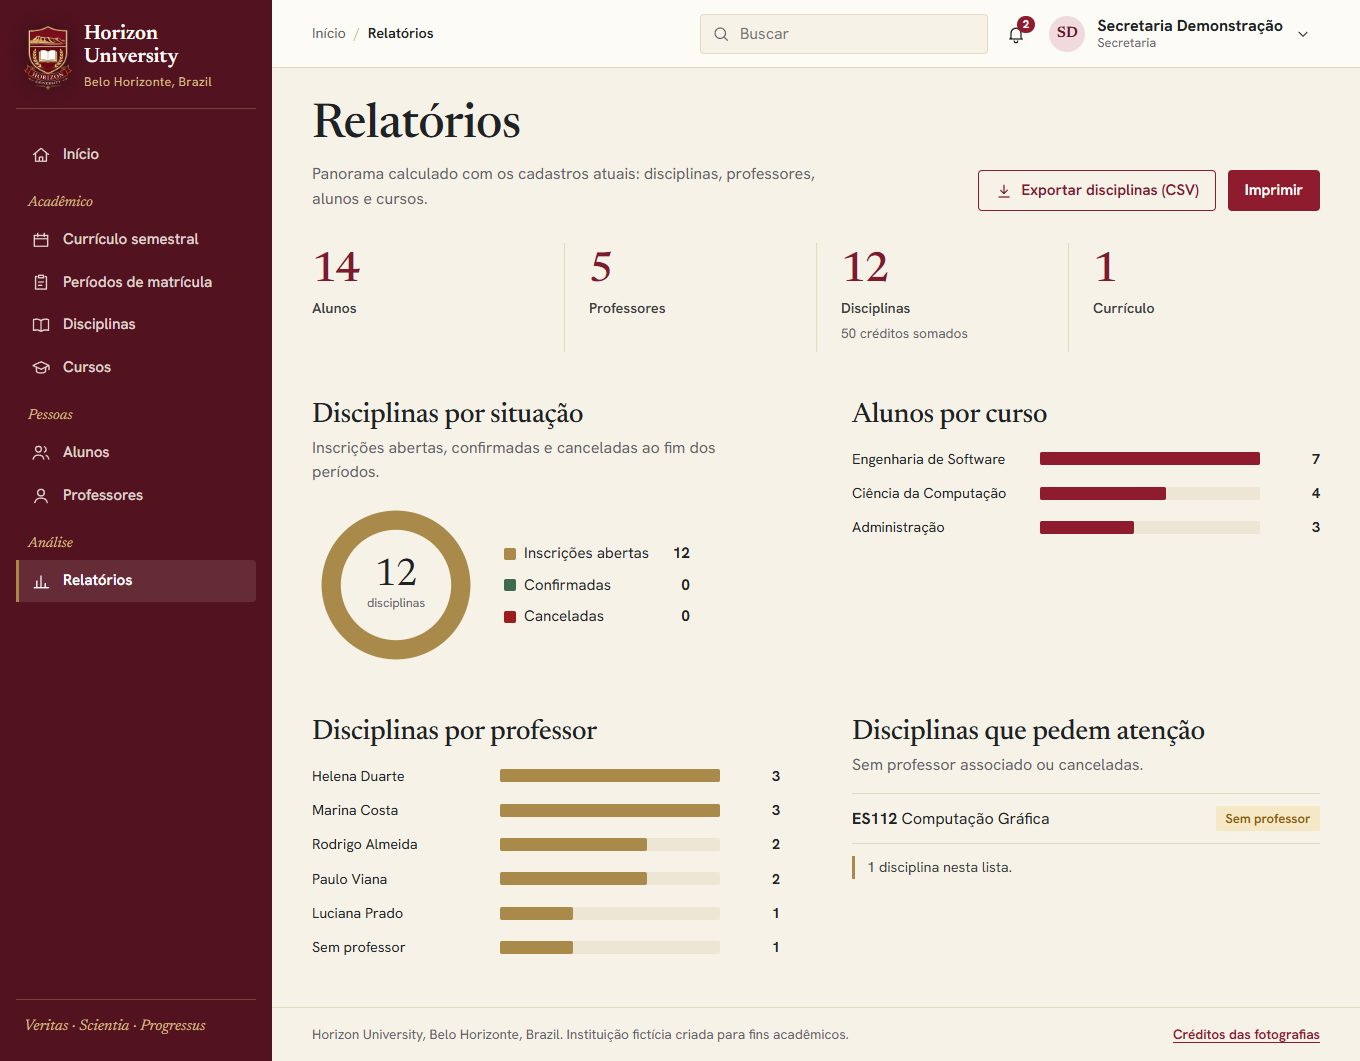
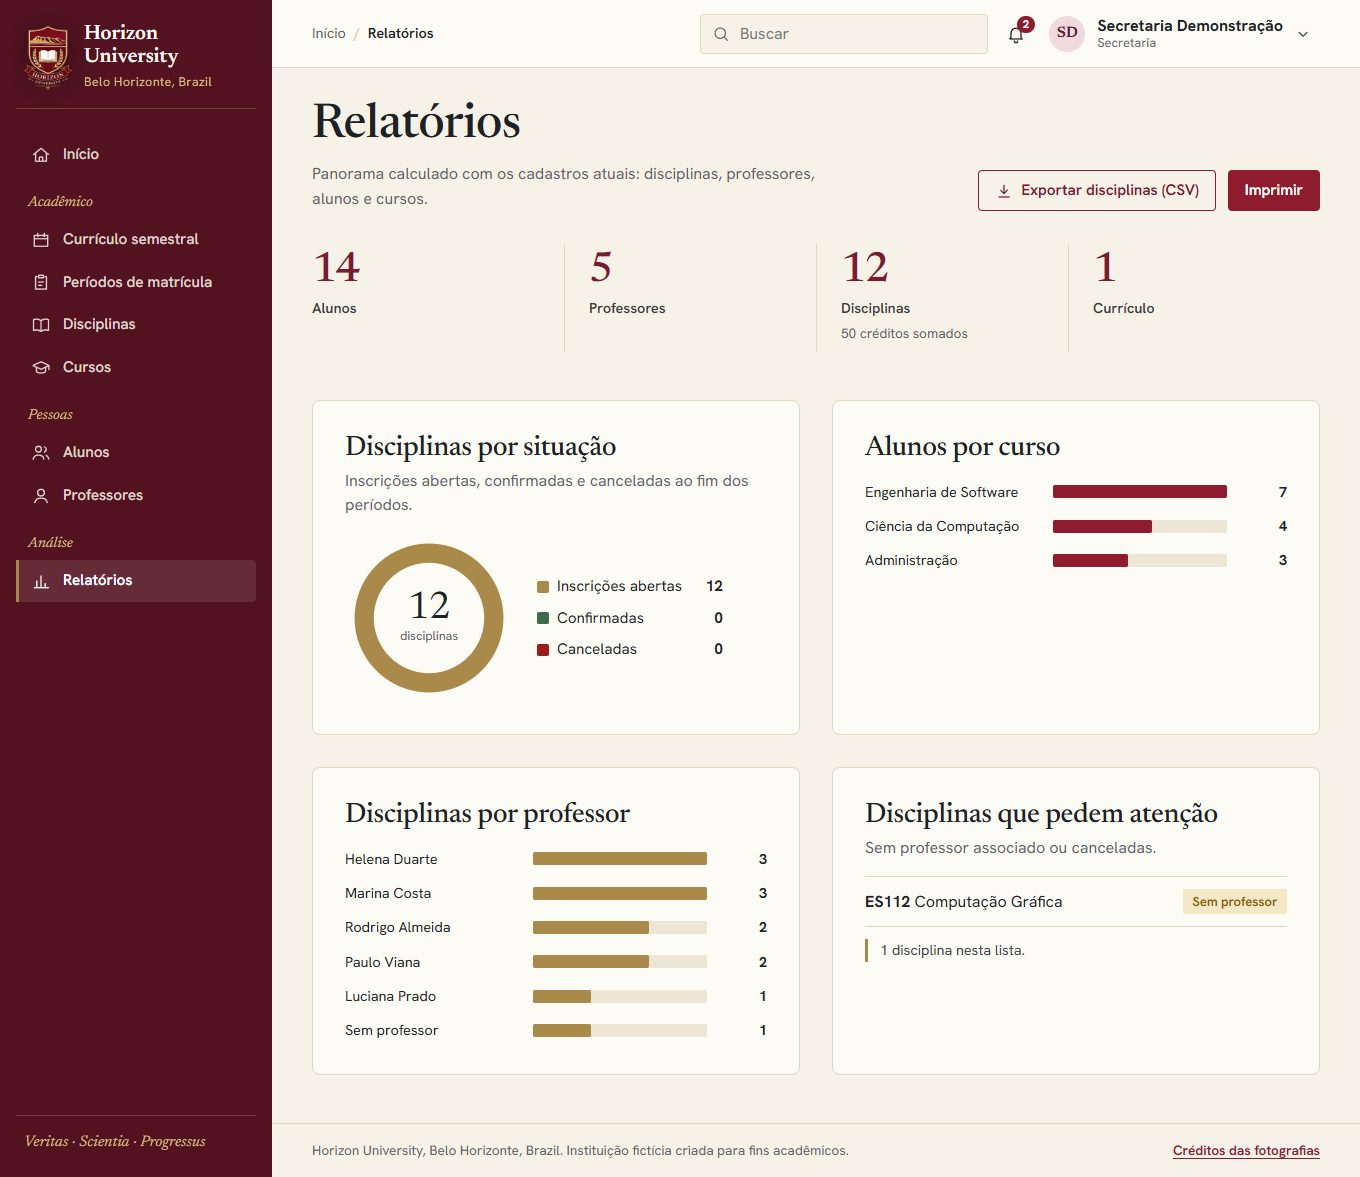
fix(frontend): impede que descricoes de avisos deixem de quebrar linha

diff --git a/frontend/src/styles/paginas.css b/frontend/src/styles/paginas.css
@@ -111,6 +111,10 @@
 
 .lista-simples small {
   color: var(--texto-suave);
+}
+
+/* Contadores à direita ("9 alunos") não quebram linha; descrições à esquerda continuam quebrando */
+.lista-simples__direita small {
   white-space: nowrap;
 }
 
